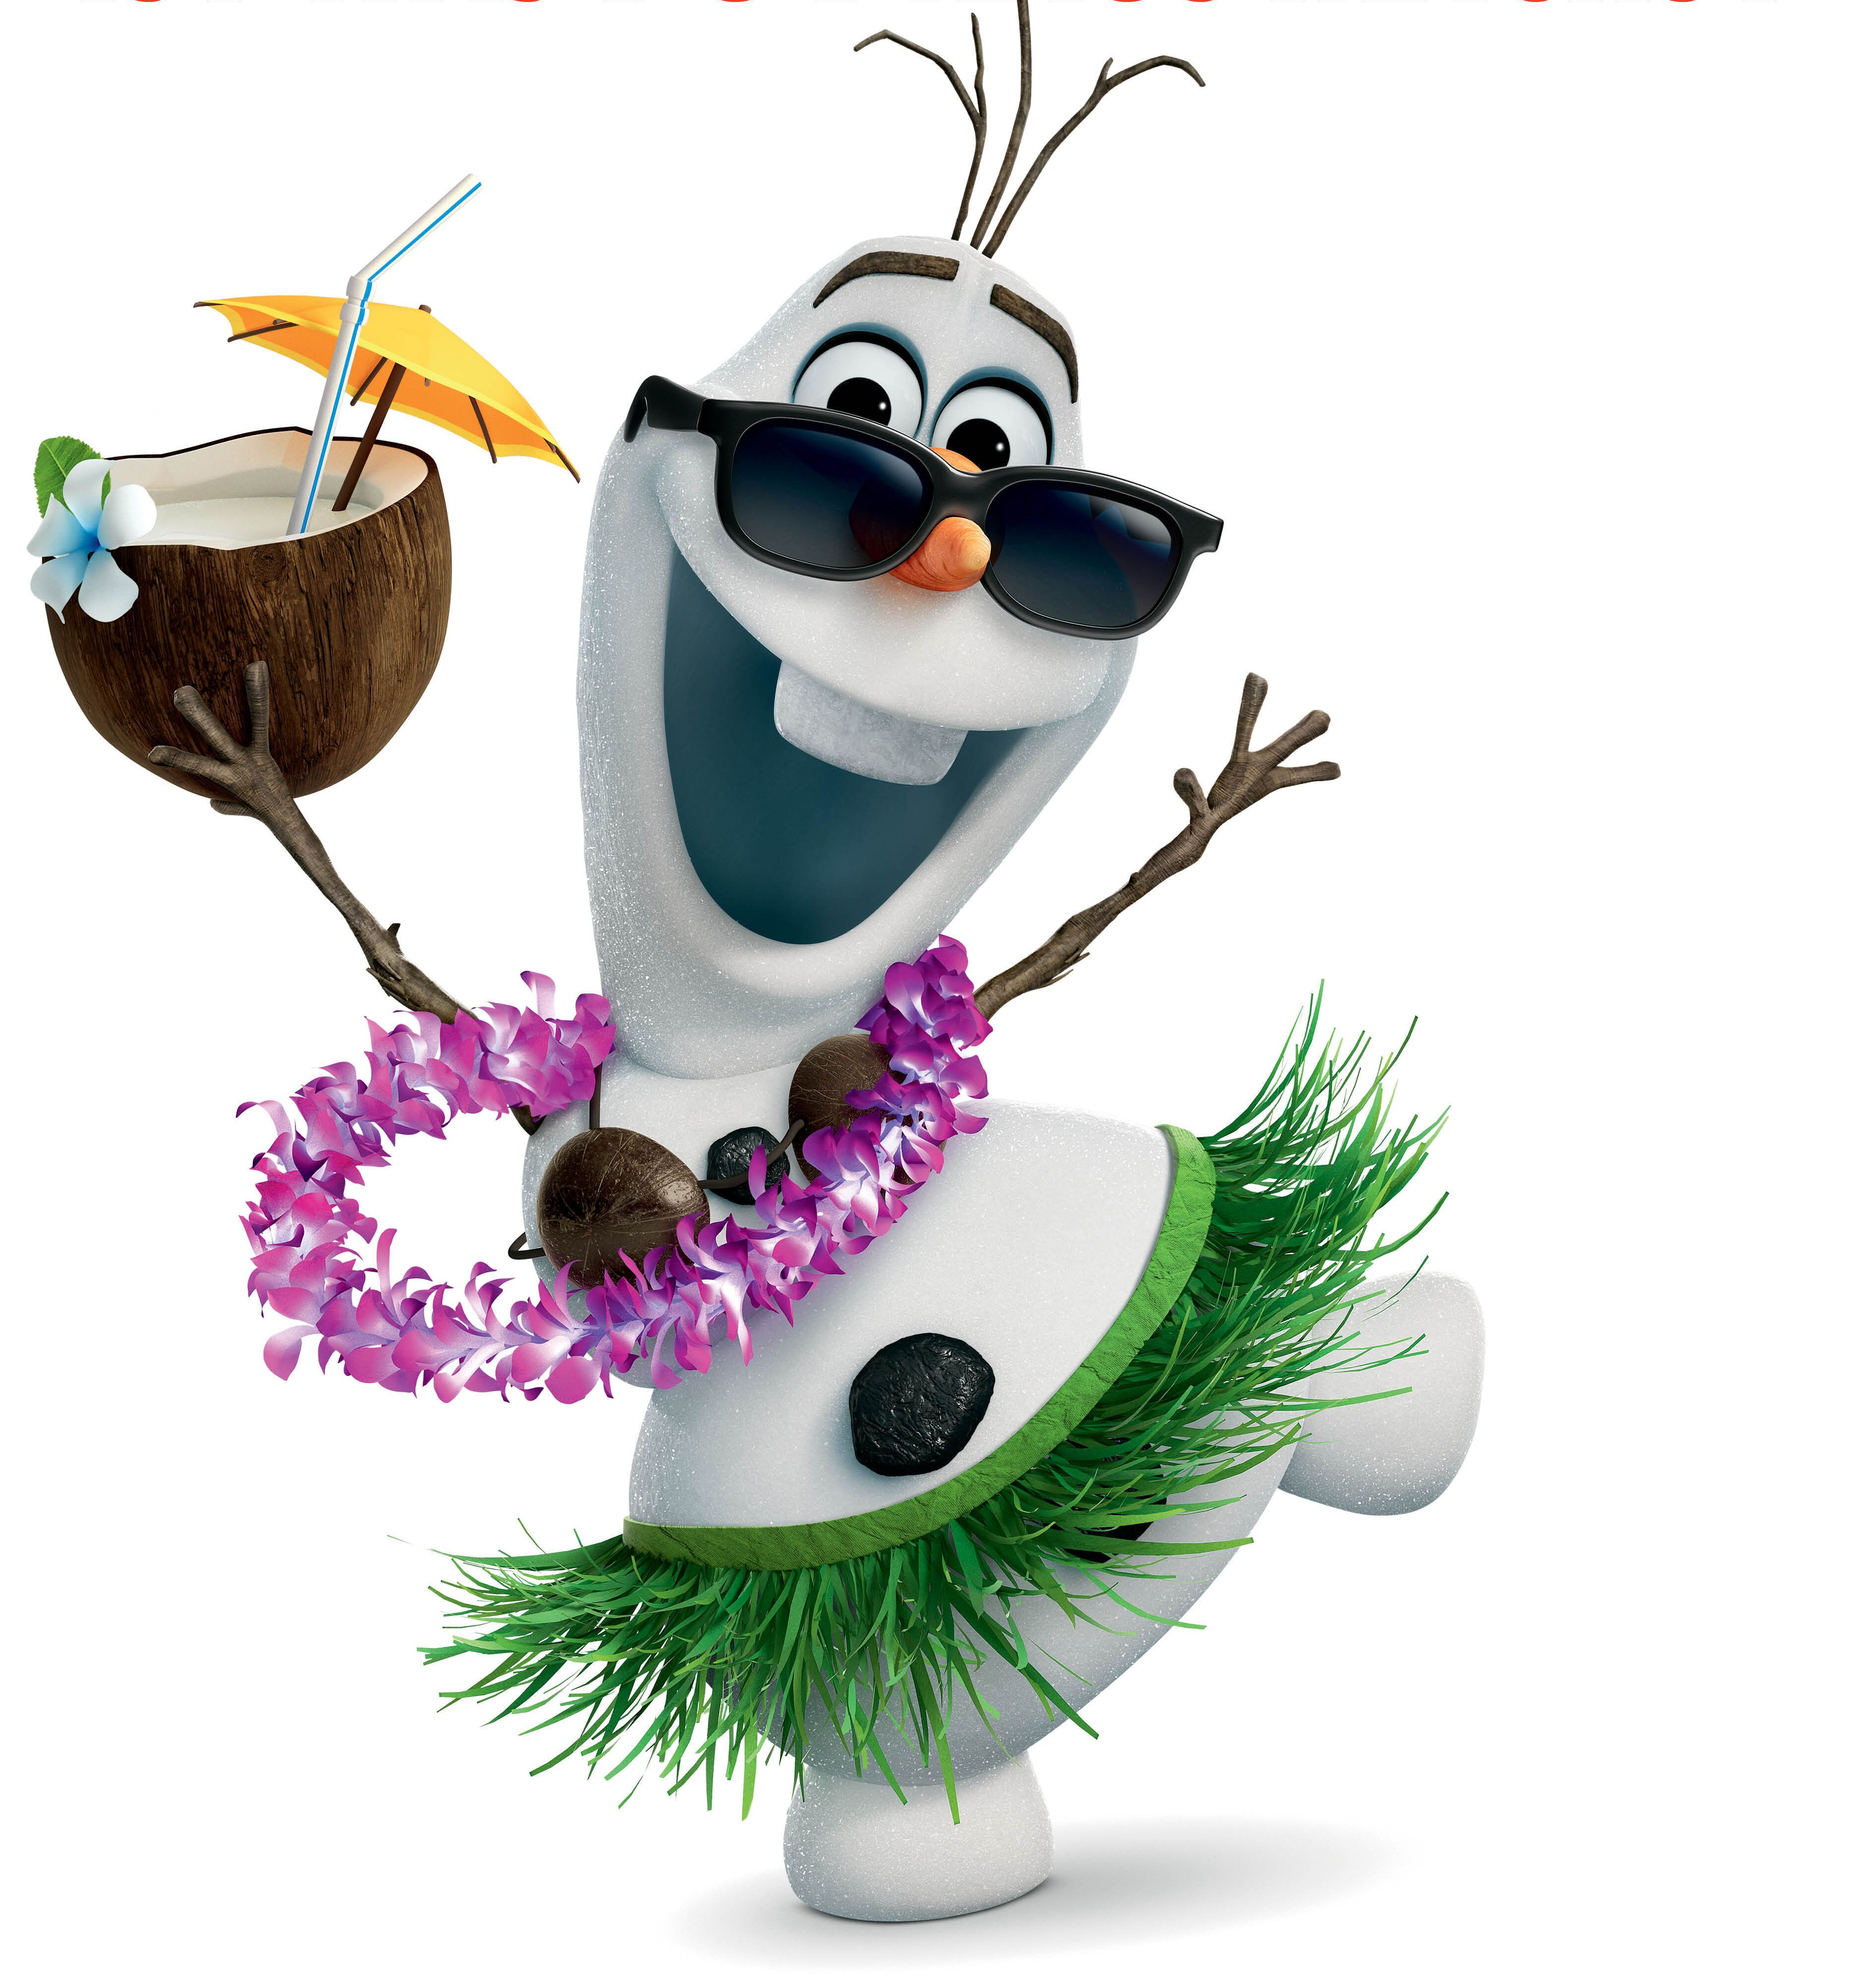
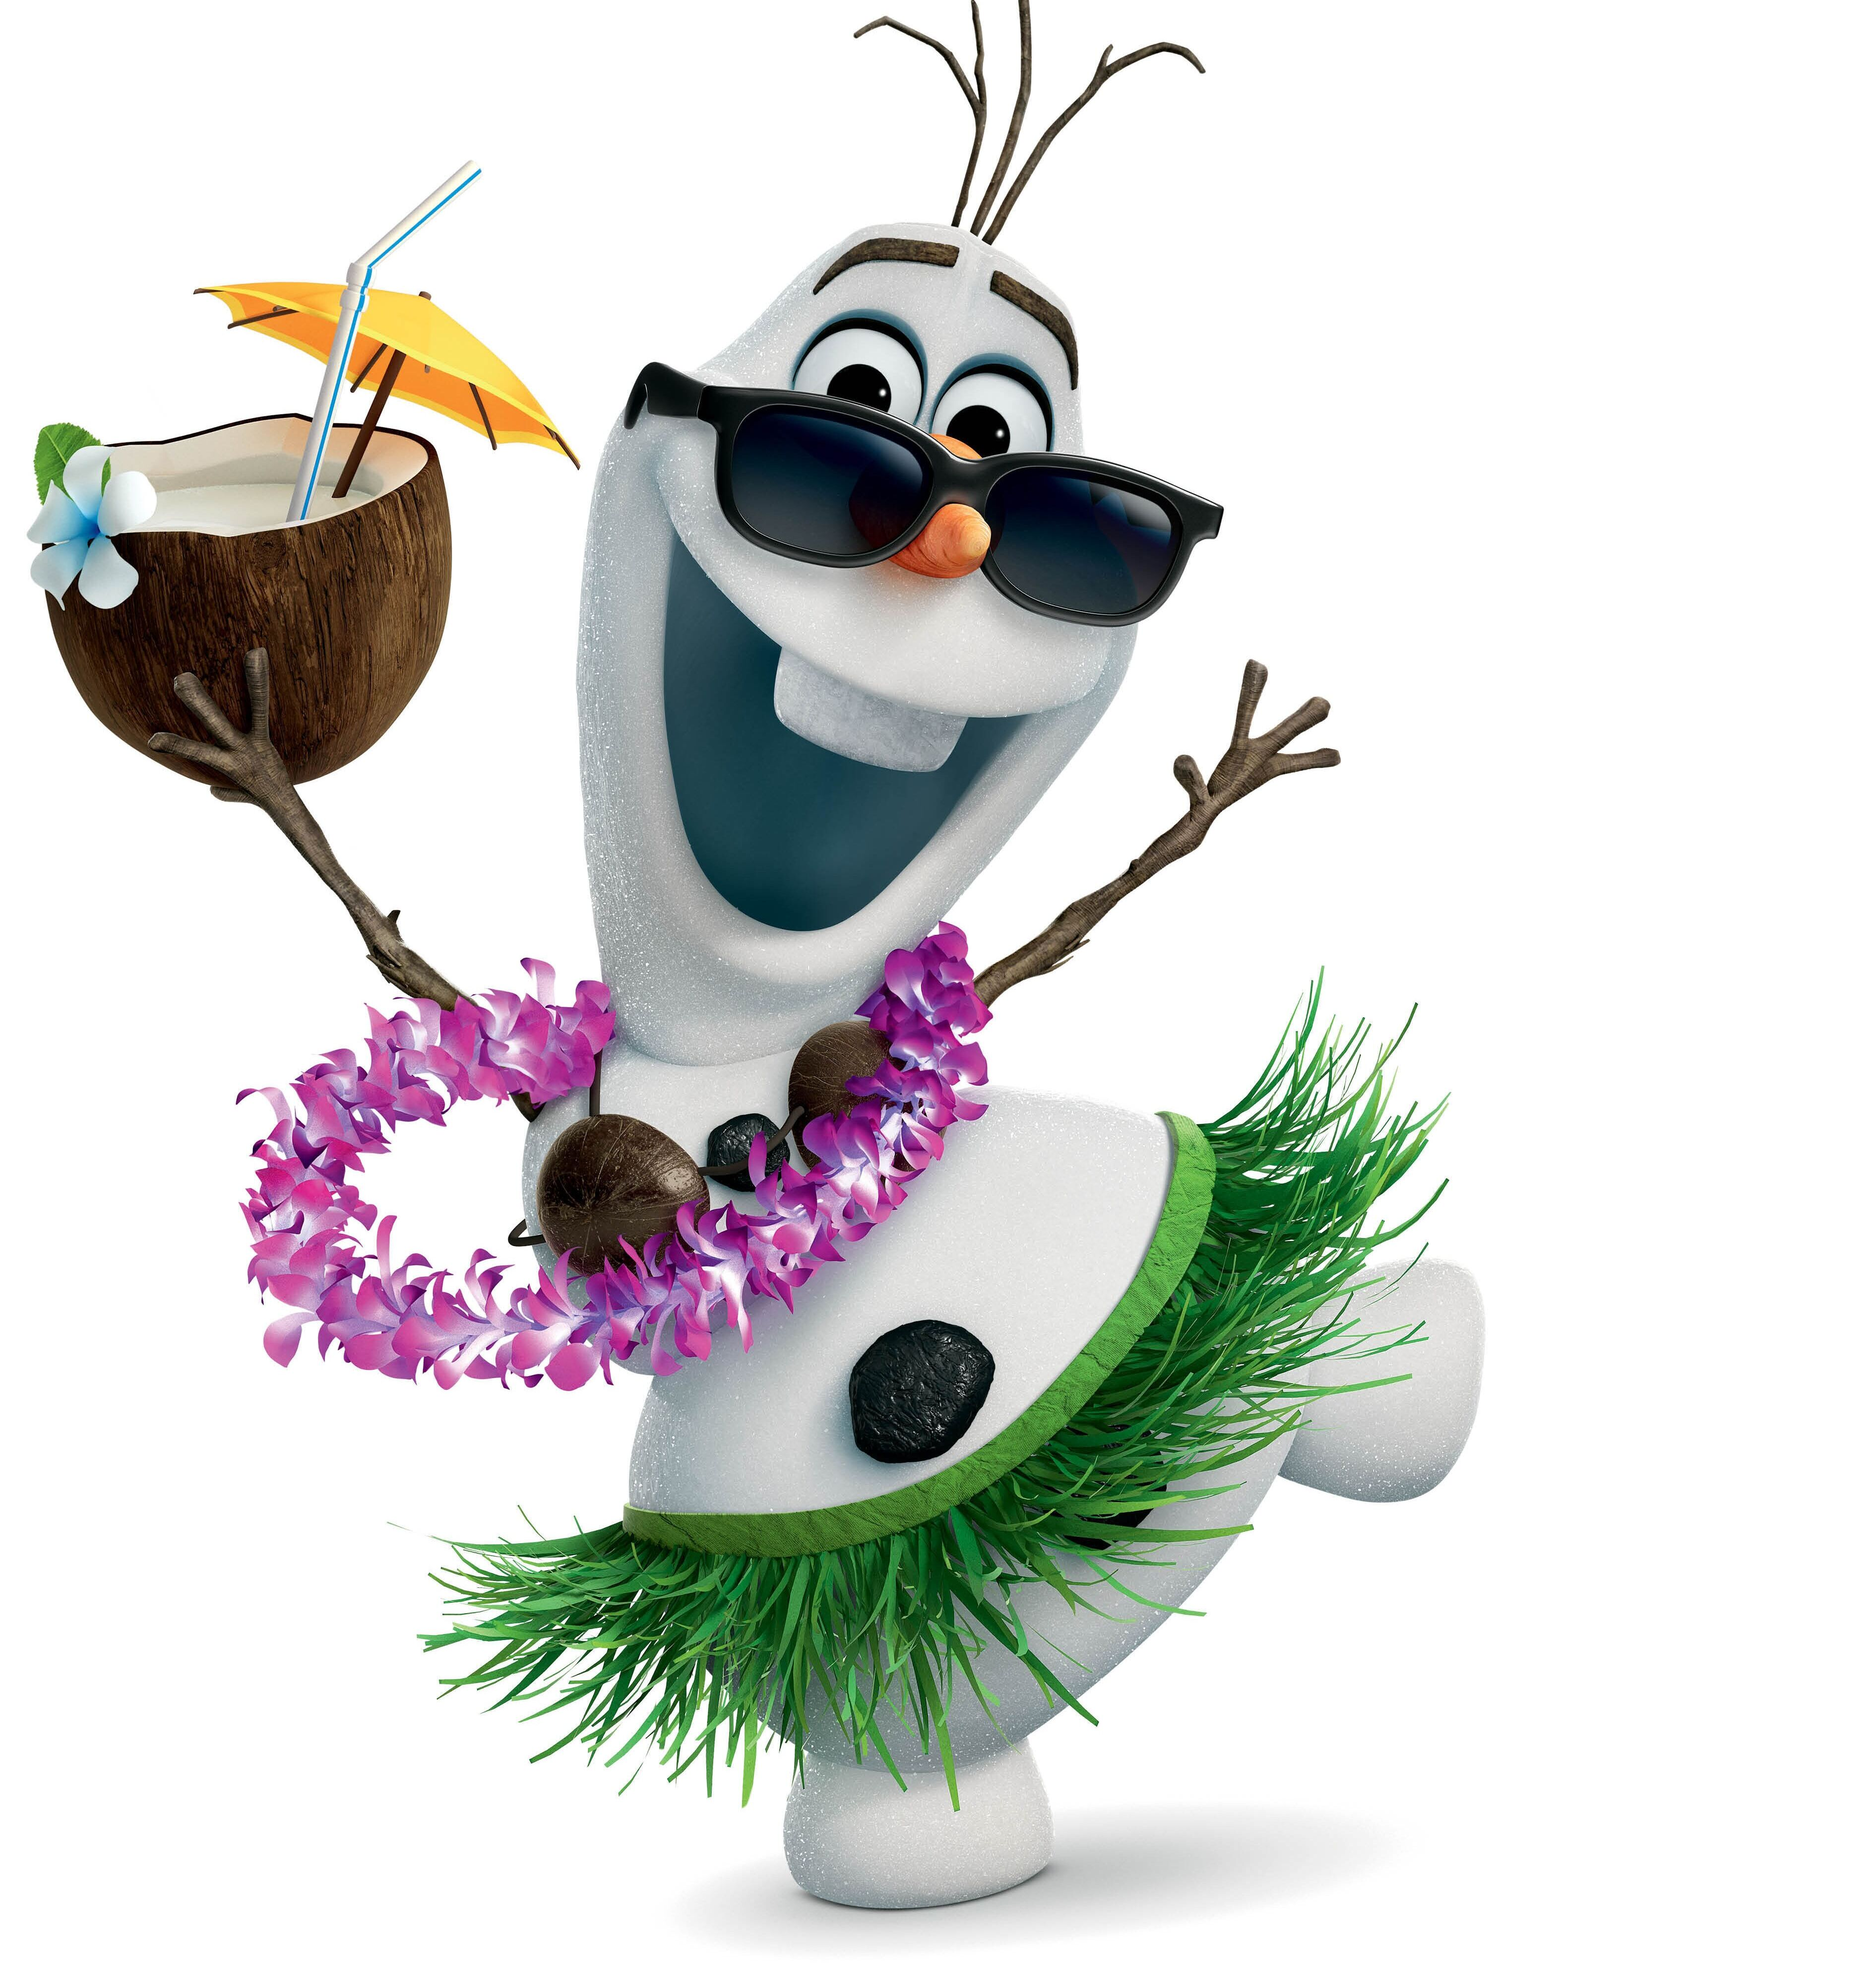
fix two link error and resize a photo

Changed region(s): [[0.0, 0.0, 0.7759, 0.9058], [0.6207, 0.3436, 0.7138, 0.4373], [0.7138, 0.7496, 0.7759, 0.7809]]

diff --git a/_posts/2014-02-21-watching-the-frozen-movie.md b/_posts/2014-02-21-watching-the-frozen-movie.md
@@ -50,12 +50,12 @@ comments: true
 </figure>
 
 <figure>
-	<img src="/images/frozen-olaf-01.jpg">
+	<img src="/images/frozen-olaf-03.jpg">
 	<figcaption>小雪人 Olaf 的夏天幻想：海边</figcaption>
 </figure>
 
 <figure>
-	<img src="/images/frozen-olaf-01.jpg">
+	<img src="/images/frozen-olaf-04.jpg">
 	<figcaption>小雪人 Olaf 的夏天幻想：大草原</figcaption>
 </figure>
 
